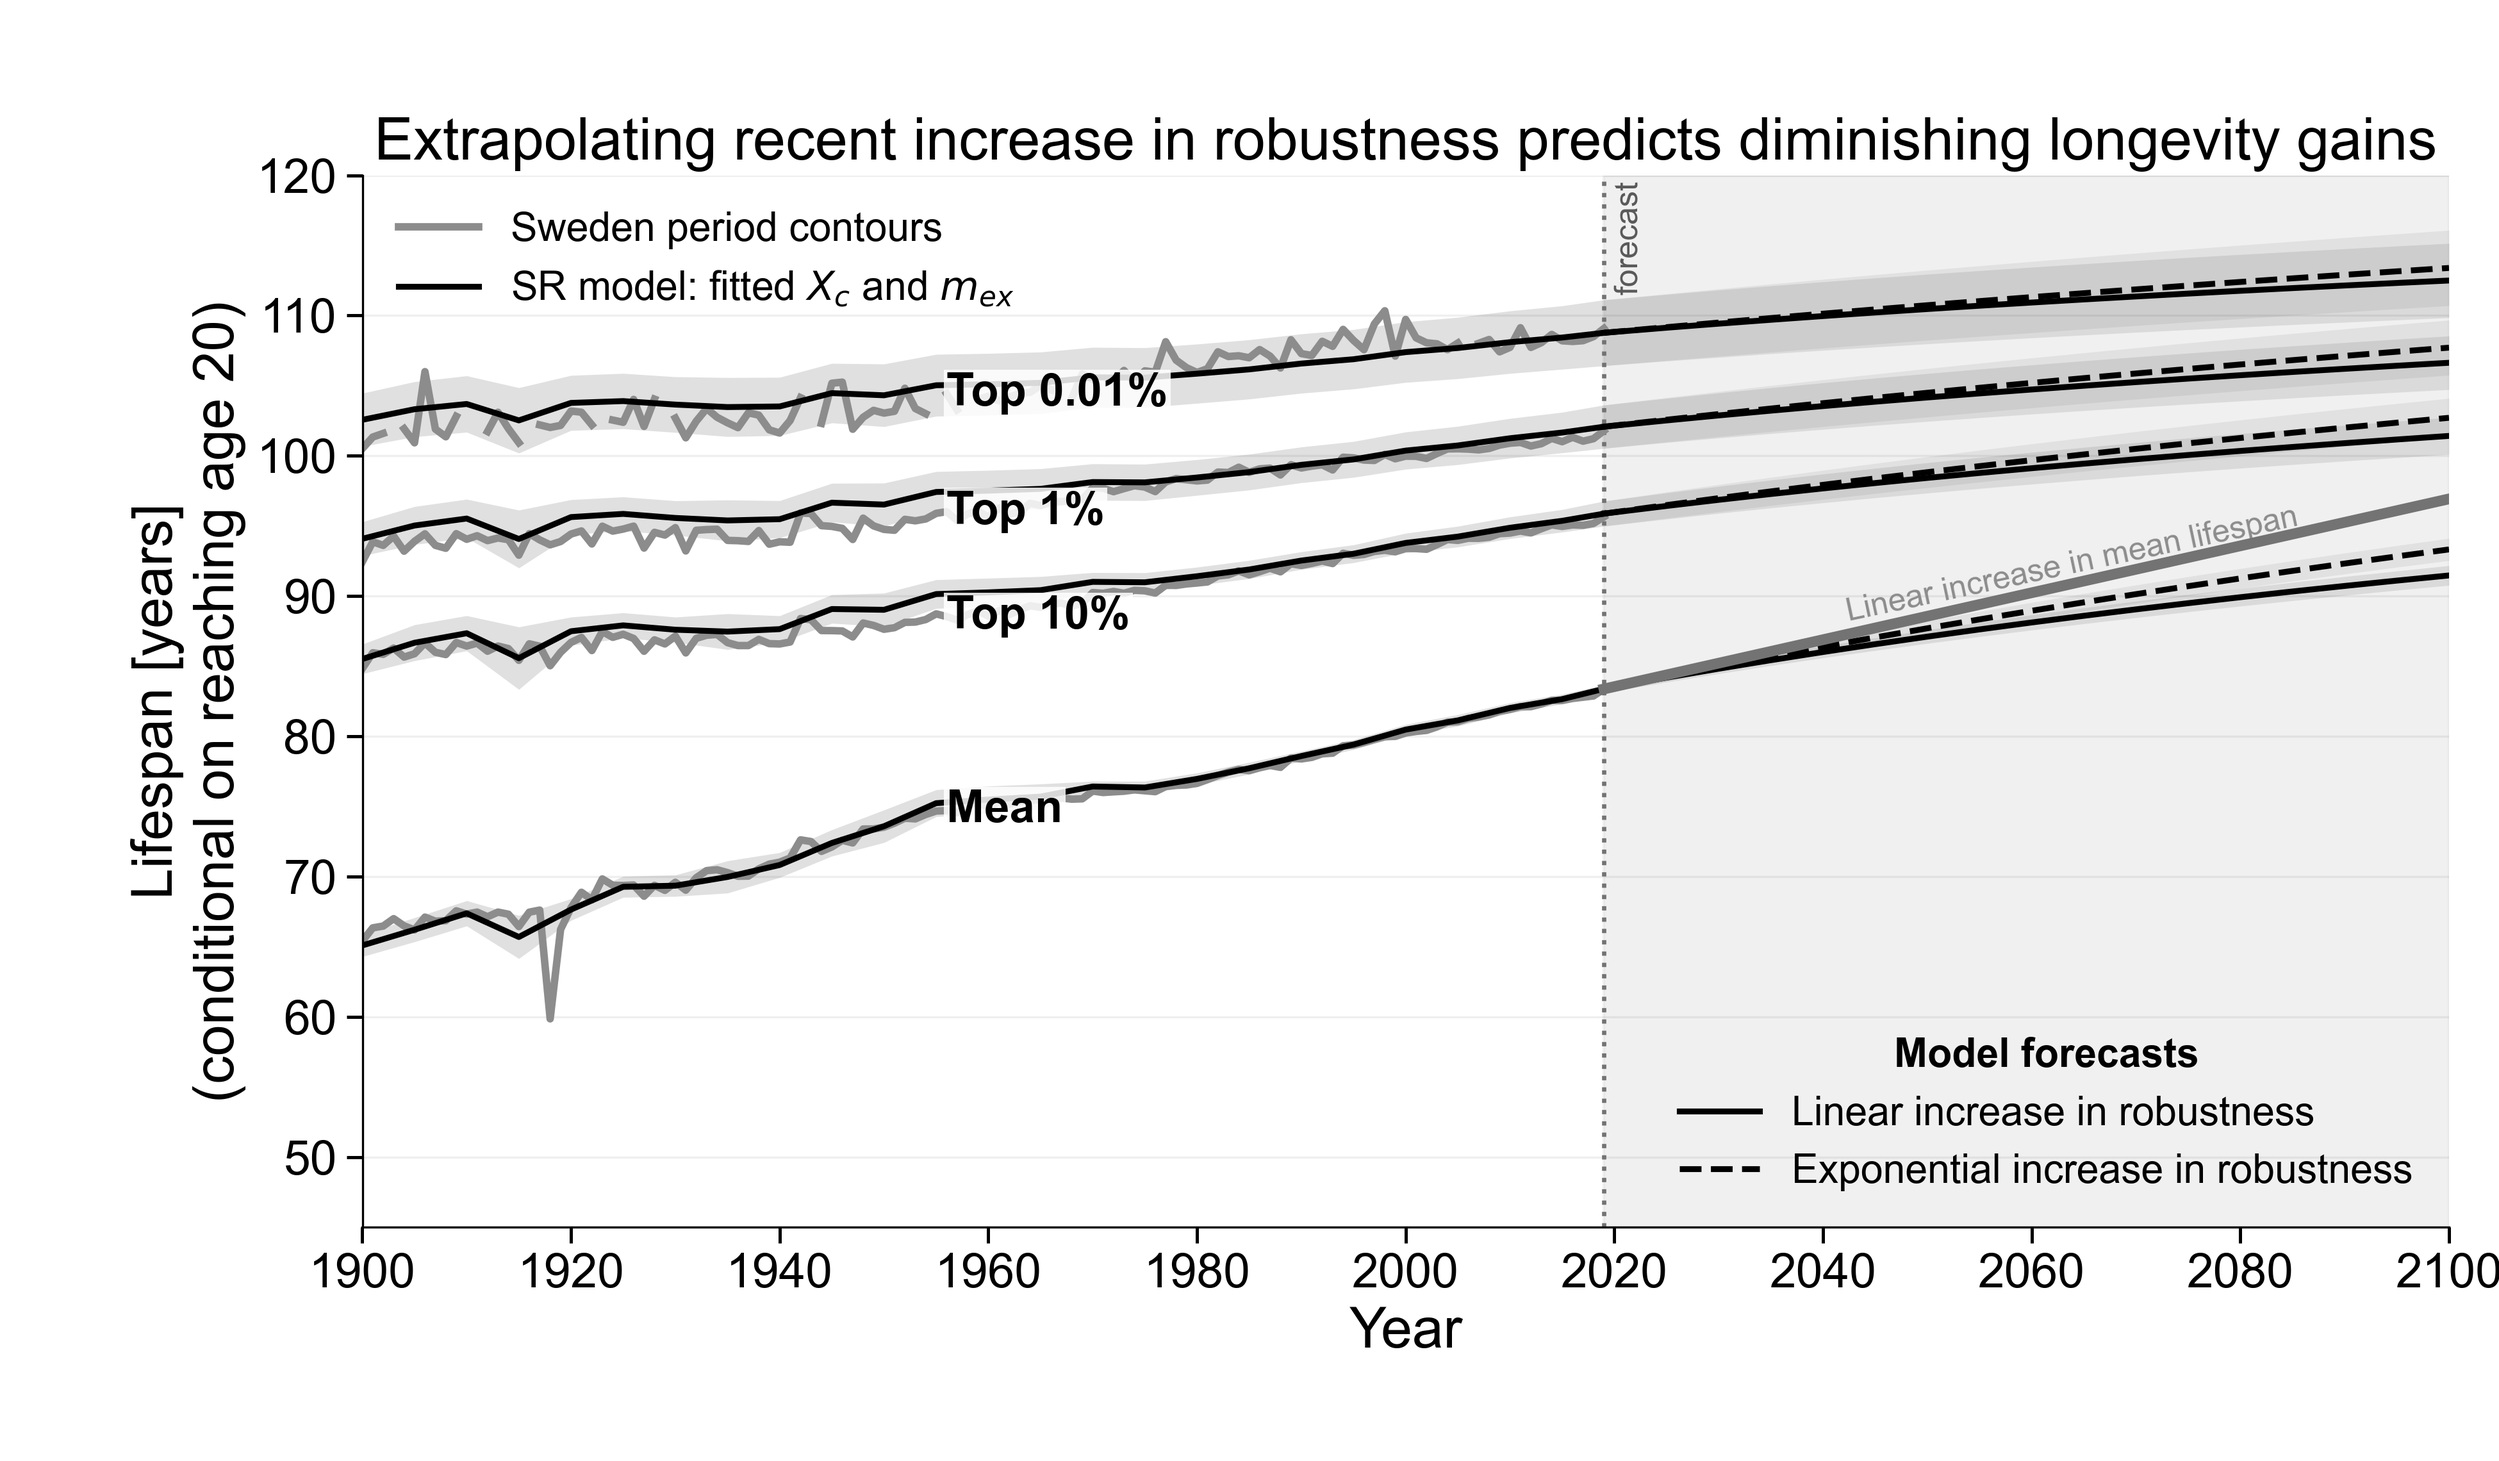
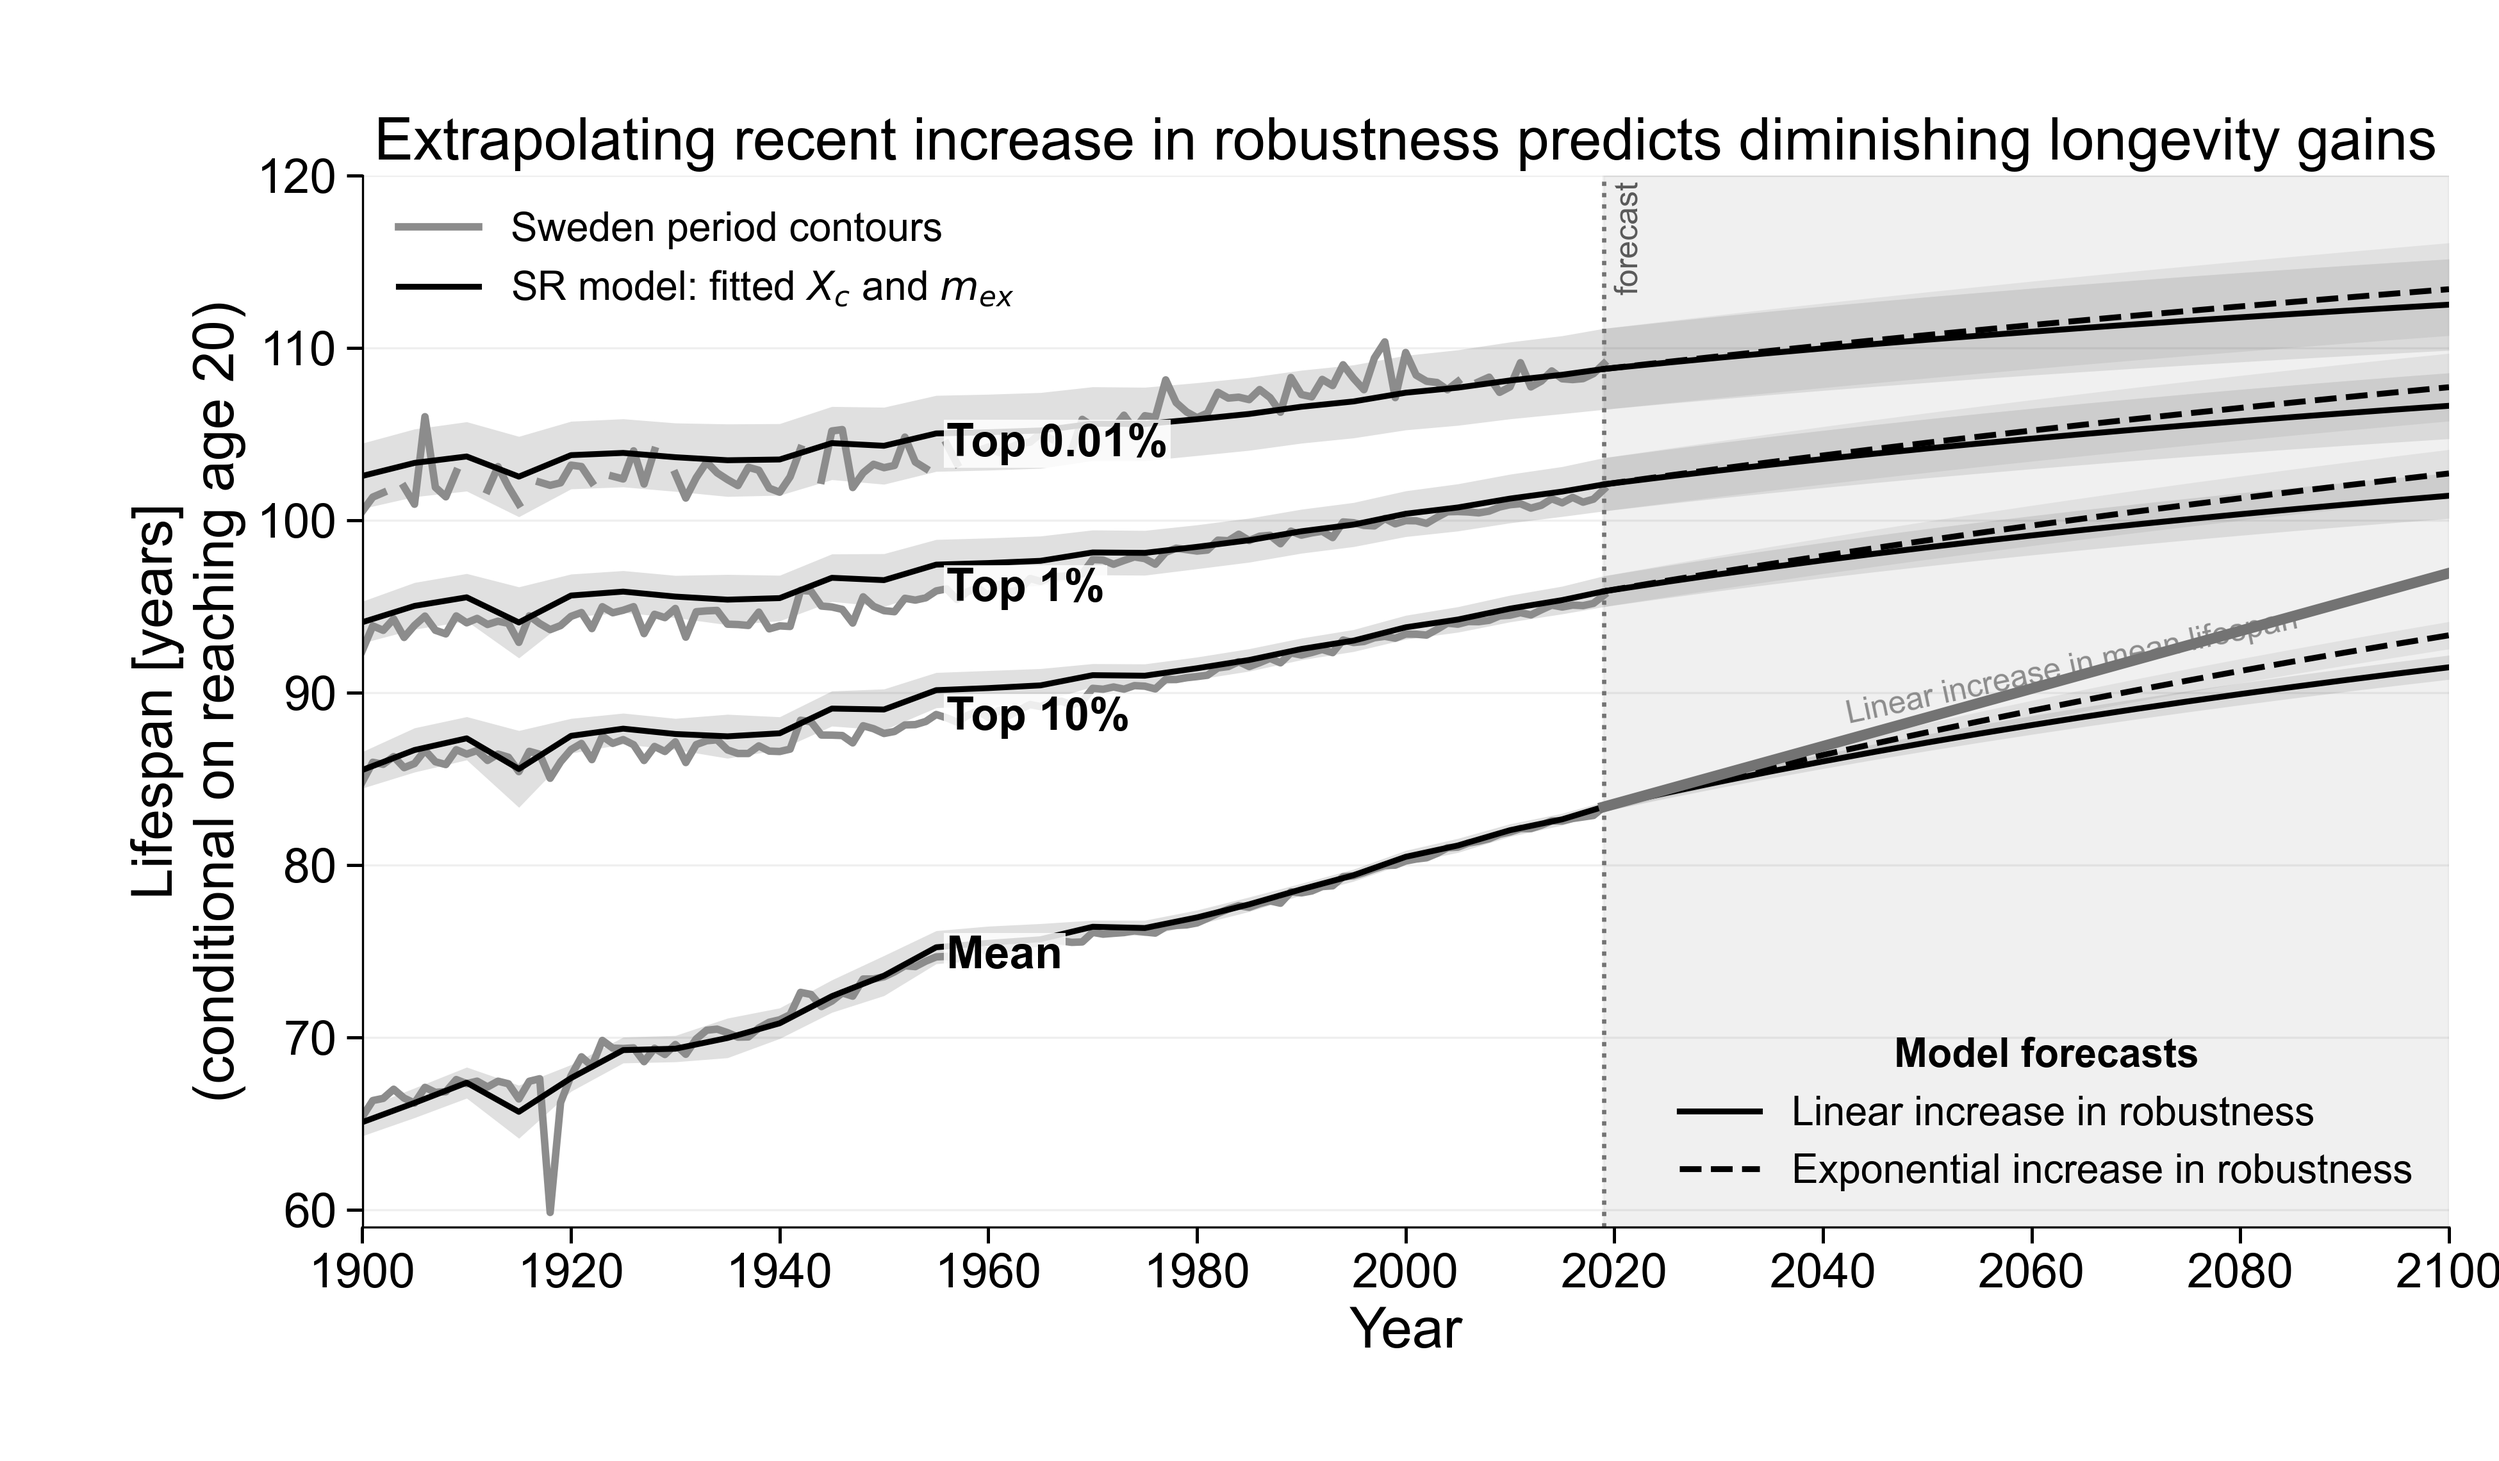
Raise Figure 5 lower lifespan limit to 59 years

diff --git a/analysis/figures/figure5/render_lifespan.py b/analysis/figures/figure5/render_lifespan.py
@@ -59,7 +59,7 @@ def lifespan_panel(data,out,dpi):
     ax.plot(FUTURE,grey,color='.45',lw=4,zorder=4)
     bounds=np.concatenate(extent);bounds=bounds[np.isfinite(bounds)]
     if not len(bounds): raise ValueError('No finite observations or predictions for Fig5')
-    ylim=(min(45,float(bounds.min())-2),max(120,float(bounds.max())+2))
+    ylim=(59,max(120,float(bounds.max())+2))
     data.report['fig5_ylim']=list(ylim)
     ax.set(xlim=(1900,2100),ylim=ylim,xlabel='Year',ylabel='Age [years]\n(conditional on reaching age 20)')
     ax.set_xticks(np.arange(1900,2101,20));ax.tick_params(length=6,width=1.2)
@@ -98,7 +98,7 @@ style();plt.rcParams.update({'font.family':'Arial','font.size':18,'axes.labelsiz
 original_save=save
 def styled_save(fig,out,name,dpi):
     ax=fig.axes[0];ax.set_title('Extrapolating recent increase in robustness predicts diminishing longevity gains')
-    ax.set_ylabel('Lifespan [years]\n(conditional on reaching age 20)');ax.set_ylim(min(45,ax.get_ylim()[0]),max(120,ax.get_ylim()[1]))
+    ax.set_ylabel('Lifespan [years]\n(conditional on reaching age 20)');ax.set_ylim(59,max(120,ax.get_ylim()[1]))
     for annotation in ax.texts:
         if annotation.get_text()=='forecast':
             annotation.remove();ax.annotate('forecast',xy=(2019,.995),xycoords=ax.get_xaxis_transform(),xytext=(4,0),textcoords='offset points',rotation=90,ha='left',va='top',fontsize=12,color='.35')
